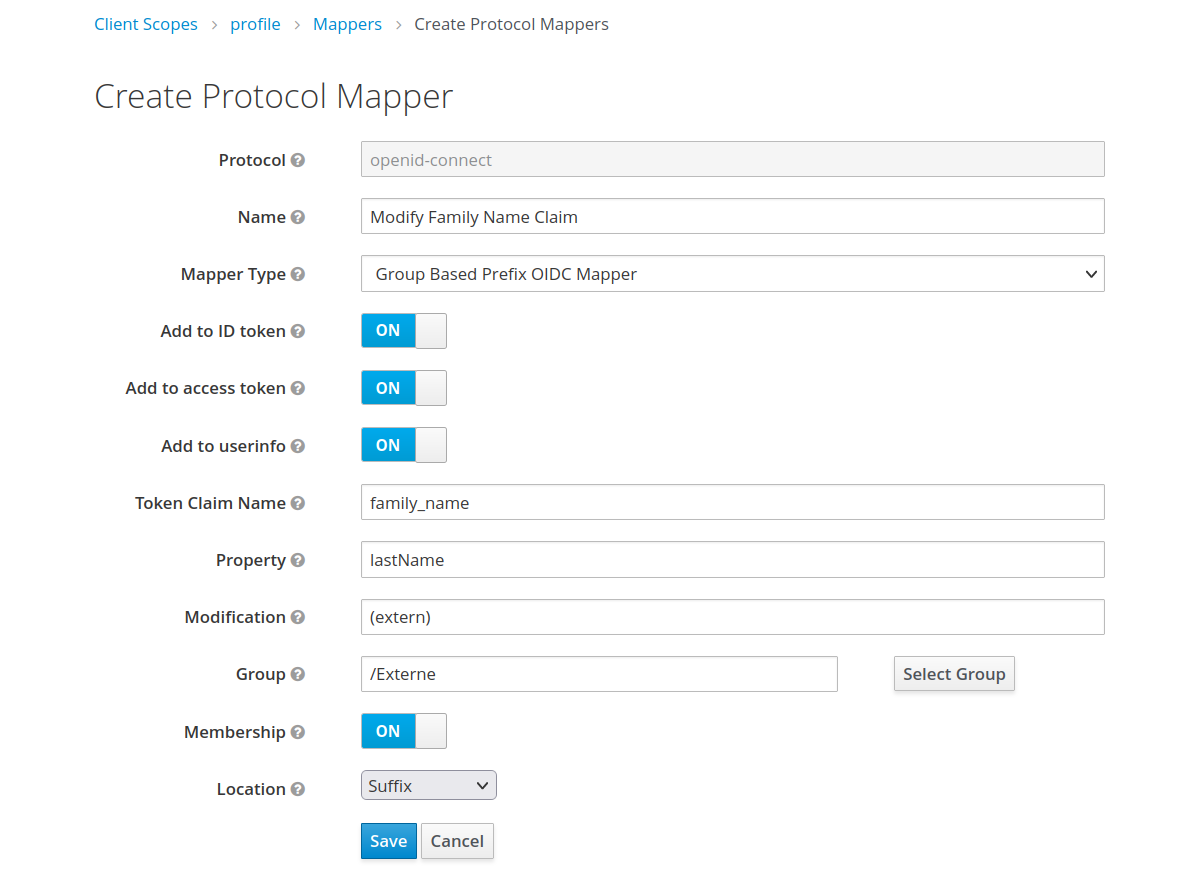
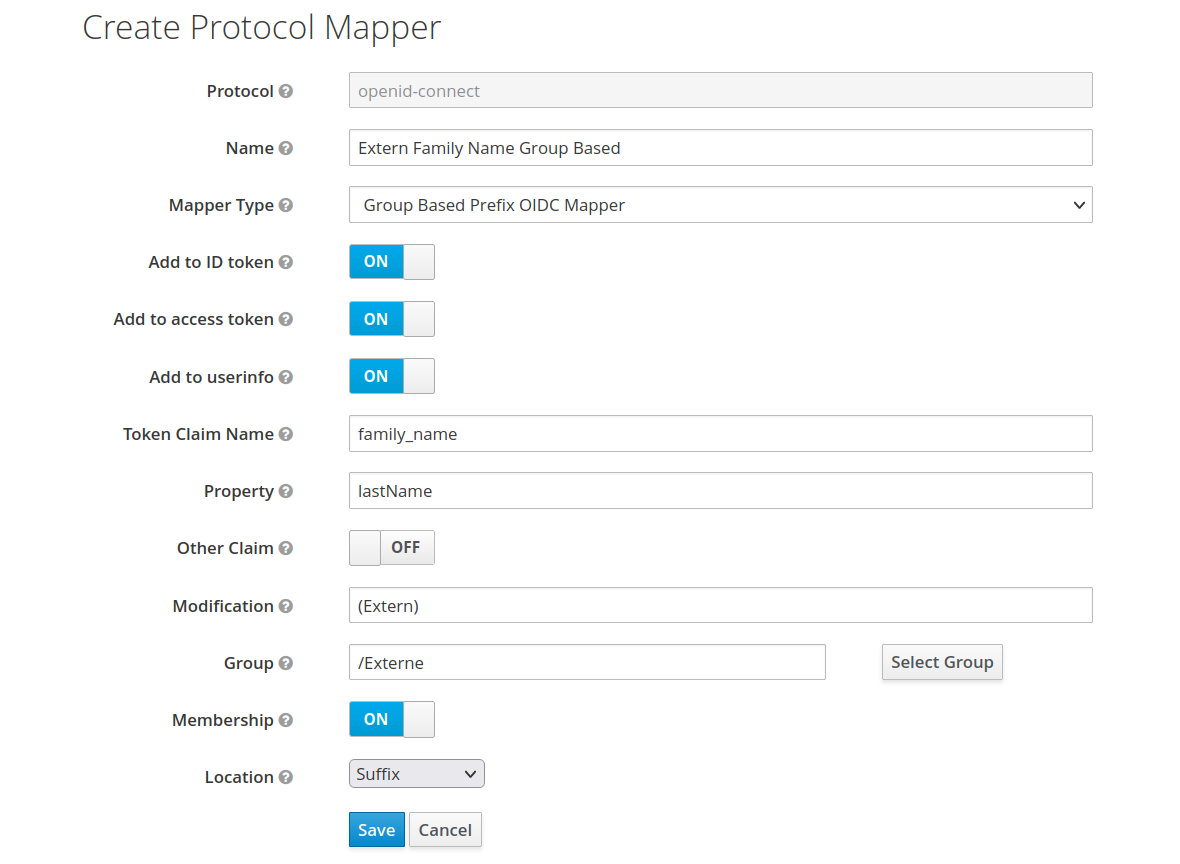
Add option to source property from otherClaims
The new option allows to source the specified property
from the already set otherClaims instead of the user's
attribute. This is helpful in the case where a previous
mapper already set a value in the otherClaims (e.g.
the full name mapper) that should be modified.

diff --git a/src/main/java/berlin/giz/keycloak/mappers/groupbasedmodification/OIDCMapper.java b/src/main/java/berlin/giz/keycloak/mappers/groupbasedmodification/OIDCMapper.java
@@ -2,6 +2,7 @@ package berlin.giz.keycloak.mappers.groupbasedmodification;
 
 import java.util.ArrayList;
 import java.util.List;
+import java.util.Map;
 
 import org.jboss.logging.Logger;
 import org.keycloak.models.ClientSessionContext;
@@ -25,6 +26,7 @@ public class OIDCMapper extends AbstractOIDCProtocolMapper implements OIDCAccess
 
     static final String PROVIDER_ID = "group-based-prefix-oidc-mapper";
 
+    static final String OTHER_CLAIM_CONFIG = "other";
     static final String MODIFICATION_CONFIG = "modification";
     static final String GROUP_NAME_CONFIG = "group";
     static final String MEMBERSHIP_CONFIG = "membership";
@@ -49,6 +51,14 @@ public class OIDCMapper extends AbstractOIDCProtocolMapper implements OIDCAccess
             ProtocolMapperUtils.USER_MODEL_PROPERTY_HELP_TEXT,
             ProviderConfigProperty.STRING_TYPE,
             null
+        ));
+        configProperties.add(new ProviderConfigProperty(
+            OTHER_CLAIM_CONFIG,
+            "Other Claim",
+            "Configures whether look for the value specified in the attributes field in the other claims " +
+                "instead. Use this to e.g. modify the full name claim.",
+            ProviderConfigProperty.BOOLEAN_TYPE,
+            "false"
         ));
         configProperties.add(new ProviderConfigProperty(
             MODIFICATION_CONFIG,
@@ -110,7 +120,9 @@ public class OIDCMapper extends AbstractOIDCProtocolMapper implements OIDCAccess
         return CONFIG_PROPERTIES;
     }
 
-    private String getModifiedAttributeValueCollection(ProtocolMapperModel mappingModel, UserSessionModel userSession, KeycloakSession keycloakSession) {
+    private String getModifiedAttributeValueCollection(ProtocolMapperModel mappingModel, UserSessionModel userSession, KeycloakSession keycloakSession,
+        Boolean fromOtherClaims, Map<String, Object> otherClaims
+    ) {
         String userAttribute = mappingModel.getConfig().get(ProtocolMapperUtils.USER_ATTRIBUTE);
         String modification = mappingModel.getConfig().get(MODIFICATION_CONFIG);
         String groupName = mappingModel.getConfig().get(GROUP_NAME_CONFIG);
@@ -136,24 +148,33 @@ public class OIDCMapper extends AbstractOIDCProtocolMapper implements OIDCAccess
             return null;
         }
         
-        String propertyValue = ProtocolMapperUtils.getUserModelValue(user, userAttribute);
-        if (propertyValue == null) {
+        Object propertyValue = fromOtherClaims ? otherClaims.get(userAttribute) : ProtocolMapperUtils.getUserModelValue(user, userAttribute);
+        if (propertyValue == null || !(propertyValue instanceof String)) {
+            LOGGER.debug("Property value either null or not String " + userAttribute);
             return null;
         }
 
+        String propertyValueString = (String) propertyValue;
         // Modify attribute
         if (location.equals(MODIFICATION_LOCATION_PREFIX)) {
-            return modification + propertyValue;
+            return modification + propertyValueString;
         } else if (location.equals(MODIFICATION_LOCATION_SUFFIX)) {
-            return propertyValue + modification;
+            return propertyValueString + modification;
         }
-        return propertyValue;
+        return propertyValueString;
     }
 
     @Override
     protected void setClaim(IDToken token, ProtocolMapperModel mappingModel, UserSessionModel userSession,
-            KeycloakSession keycloakSession, ClientSessionContext clientSessionCtx) {
-        String modifiedAttributeValue = this.getModifiedAttributeValueCollection(mappingModel, userSession, keycloakSession);
+        KeycloakSession keycloakSession, ClientSessionContext clientSessionCtx
+    ) {
+        String checkOtherClaimsValue = mappingModel.getConfig().get(OTHER_CLAIM_CONFIG);
+        if (checkOtherClaimsValue == null) {
+            return;
+        }
+        Boolean checkOtherClaims = Boolean.valueOf(checkOtherClaimsValue);
+        
+        String modifiedAttributeValue = this.getModifiedAttributeValueCollection(mappingModel, userSession, keycloakSession, checkOtherClaims, token.getOtherClaims());
         if (modifiedAttributeValue == null) {
             return;
         }
@@ -164,8 +185,15 @@ public class OIDCMapper extends AbstractOIDCProtocolMapper implements OIDCAccess
 
     @Override
     protected void setClaim(AccessTokenResponse accessTokenResponse, ProtocolMapperModel mappingModel,
-            UserSessionModel userSession, KeycloakSession keycloakSession, ClientSessionContext clientSessionCtx) {
-        String modifiedAttributeValue = this.getModifiedAttributeValueCollection(mappingModel, userSession, keycloakSession);
+            UserSessionModel userSession, KeycloakSession keycloakSession, ClientSessionContext clientSessionCtx
+    ) {
+        String checkOtherClaimsValue = mappingModel.getConfig().get(OTHER_CLAIM_CONFIG);
+        if (checkOtherClaimsValue == null) {
+            return;
+        }
+        Boolean checkOtherClaims = Boolean.valueOf(checkOtherClaimsValue);
+
+        String modifiedAttributeValue = this.getModifiedAttributeValueCollection(mappingModel, userSession, keycloakSession, checkOtherClaims, accessTokenResponse.getOtherClaims());
         if (modifiedAttributeValue == null) {
             return;
         }
